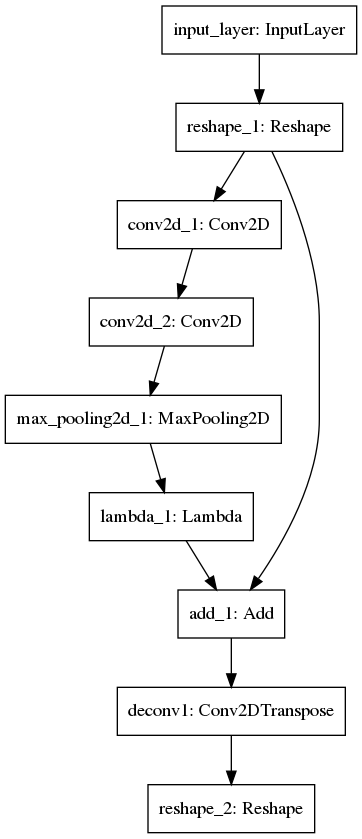
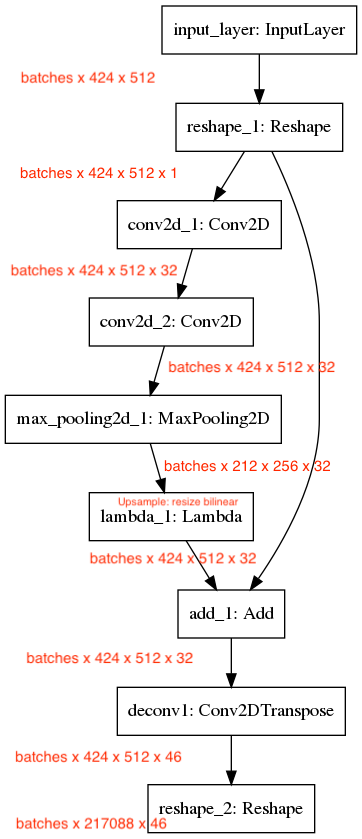
update model.png with labels

diff --git a/README.md b/README.md
@@ -50,7 +50,11 @@ The preprocessing on UBC3V converts the grayscale images to depth data using the
 As the data is loaded into memory to be fed to the FCN for training or testing, the labels are converted to categorical arrays and flattened. Each label is a 2D vector with 424*512 elements in the first dimension (one for each pixel) and 46 elements in the second where only a single element is 1 and the rest are 0s. The 46 elements represent the 46 possible classes.
 
 ### The FCN model
+The image below shows the proposed FCN architecture.
+
 ![Model architecture](/model.png?raw=true)
+
+The model accepts depth images with the dimensions batches x 424 x 512. The input is then passed to a reshape layer that converts the input into a tensor with the shape batches x 424 x 512 x 1 because convolutional layers in Keras expect a channels dimension. The output of reshape is sent to two locations. First it is sent through several convolutional layers with kernel sizes 3 x 3 and then to a max pooling layer that reduces the dimensionality to 212 x 256 x 32.
 ### Training (Loss and Evaluation Metrics)
 ### Shortcomings
 ### External Packages
